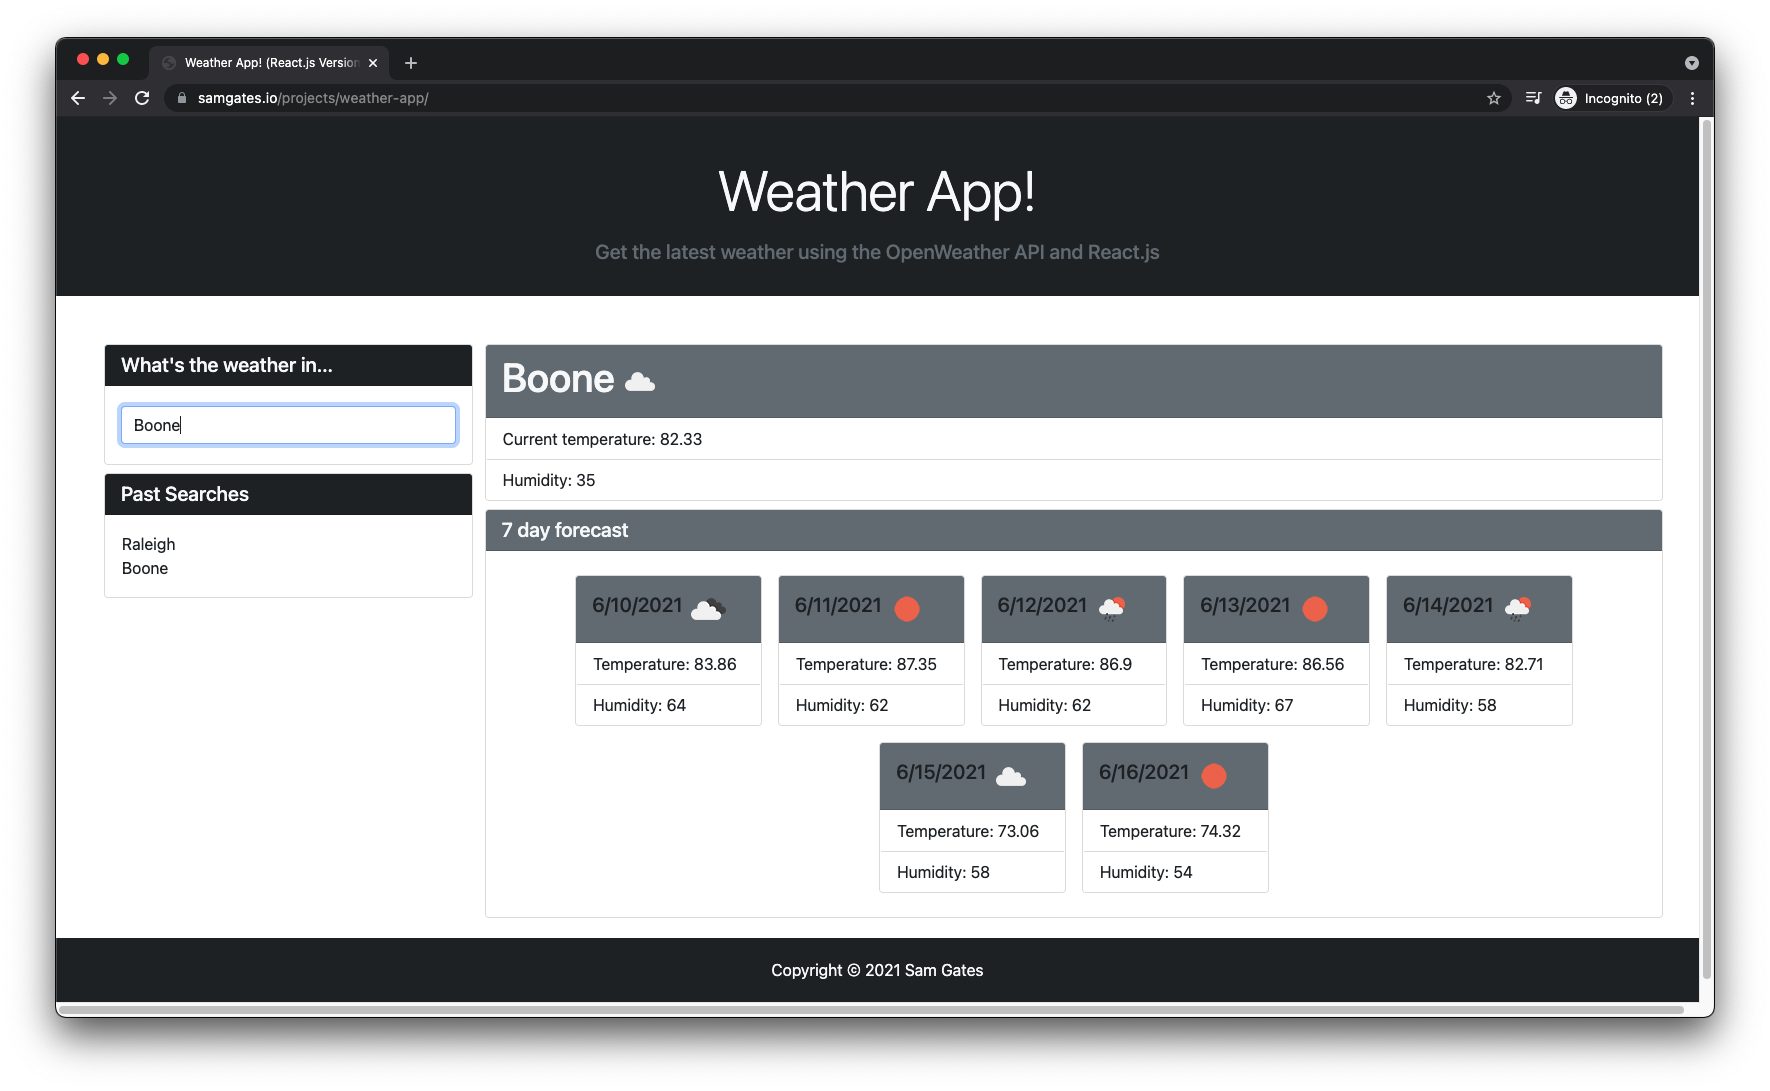
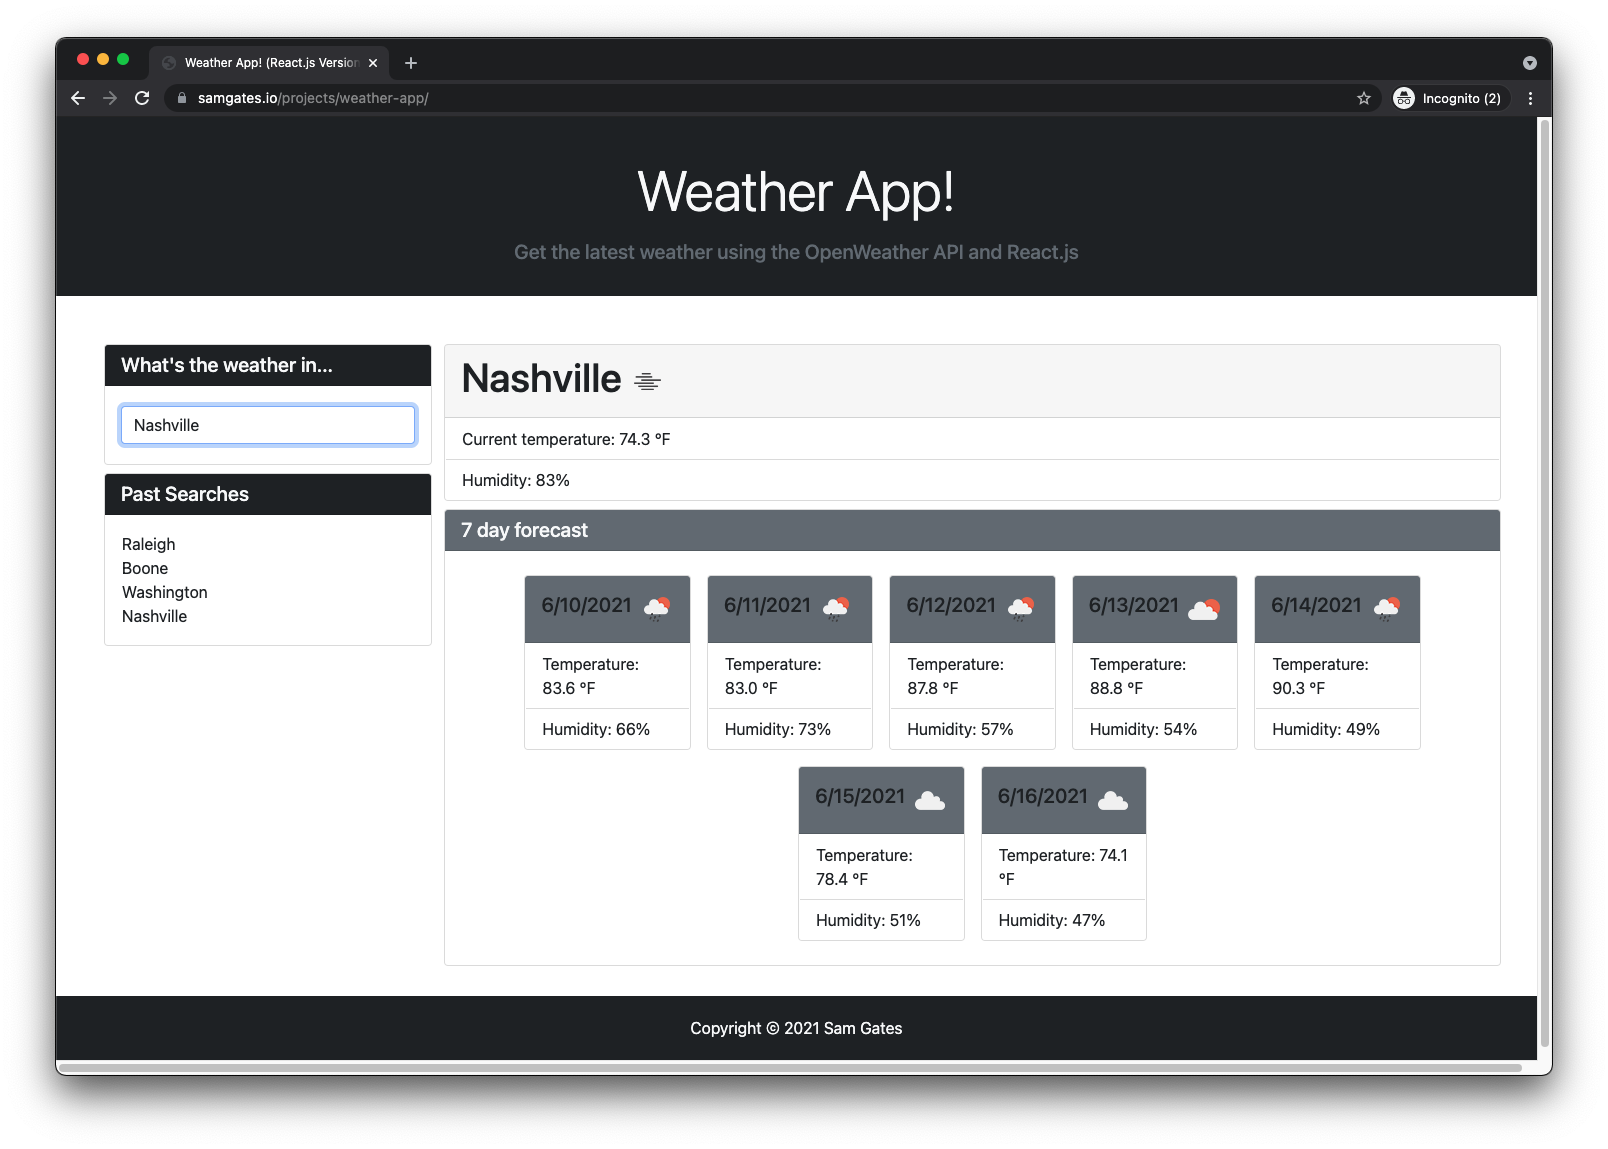
Added formatting for numbers and humidity, updated screenshot

Changed region(s): [[0.0311, 0.0312, 0.995, 0.9349], [0.8396, 0.0623, 0.9328, 0.0935]]

diff --git a/src/components/WeatherForecast.js b/src/components/WeatherForecast.js
@@ -3,7 +3,7 @@ import React from 'react';
 const WeatherForecast = ({ forecast }) => {
     return (
         <div className="card">
-        <div className="card-header d-flex align-items-center bg-secondary text-light">
+        <div className="card-header d-flex align-items-center">
             <h1>{ forecast.name }</h1>
             <img
                 src={`https://openweathermap.org/img/wn/${forecast.icon}.png`}
@@ -12,7 +12,7 @@ const WeatherForecast = ({ forecast }) => {
         </div>
         <ul className="list-group list-group-flush">
             <li className="list-group-item">
-                Current temperature: {forecast.temp.toFixed(1)}&deg;F
+                Current temperature: {forecast.temp ? forecast.temp.toFixed(1) : forecast.temp} &deg;F 
             </li>
             <li className="list-group-item">
                 Humidity: {forecast.humidity}%

diff --git a/src/components/WeatherDetail.js b/src/components/WeatherDetail.js
@@ -25,7 +25,7 @@ const WeatherDetail = ({ day }) => {
         </div>
         <ul className="list-group list-group-flush">
             <li className="list-group-item">
-                Temperature: {day.temp.day.toFixed(1)}&deg;F
+                Temperature: {day.temp.day ? day.temp.day.toFixed(1) : day.temp.day} &deg;F 
             </li>
             <li className="list-group-item">
                 Humidity: {day.humidity}%
